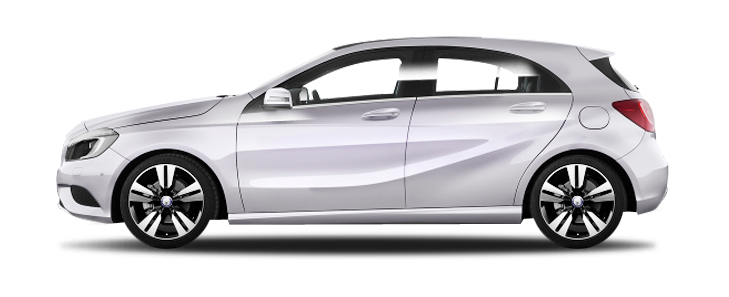
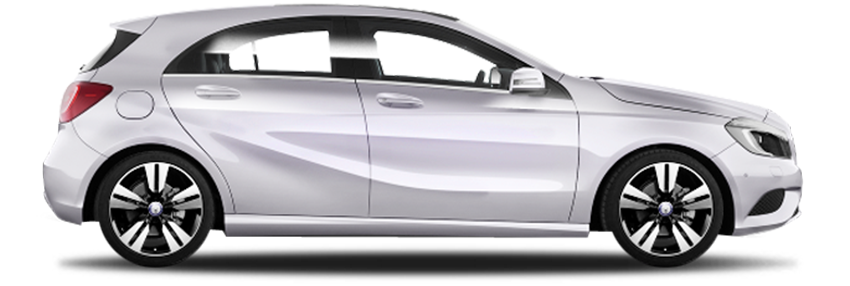
:lipstick: Fix vehicle size

diff --git a/src/api/fleet.js b/src/api/fleet.js
@@ -64,7 +64,7 @@ export default [
       ],
       pl_PL: ['Zestaw głośnomówiący, dach panoramiczny, pakiet AMG'],
     },
-    flip: true,
+    flip: false,
     image: ExampleVehicle2,
     lowestPrice: 109,
     color: 'white',
